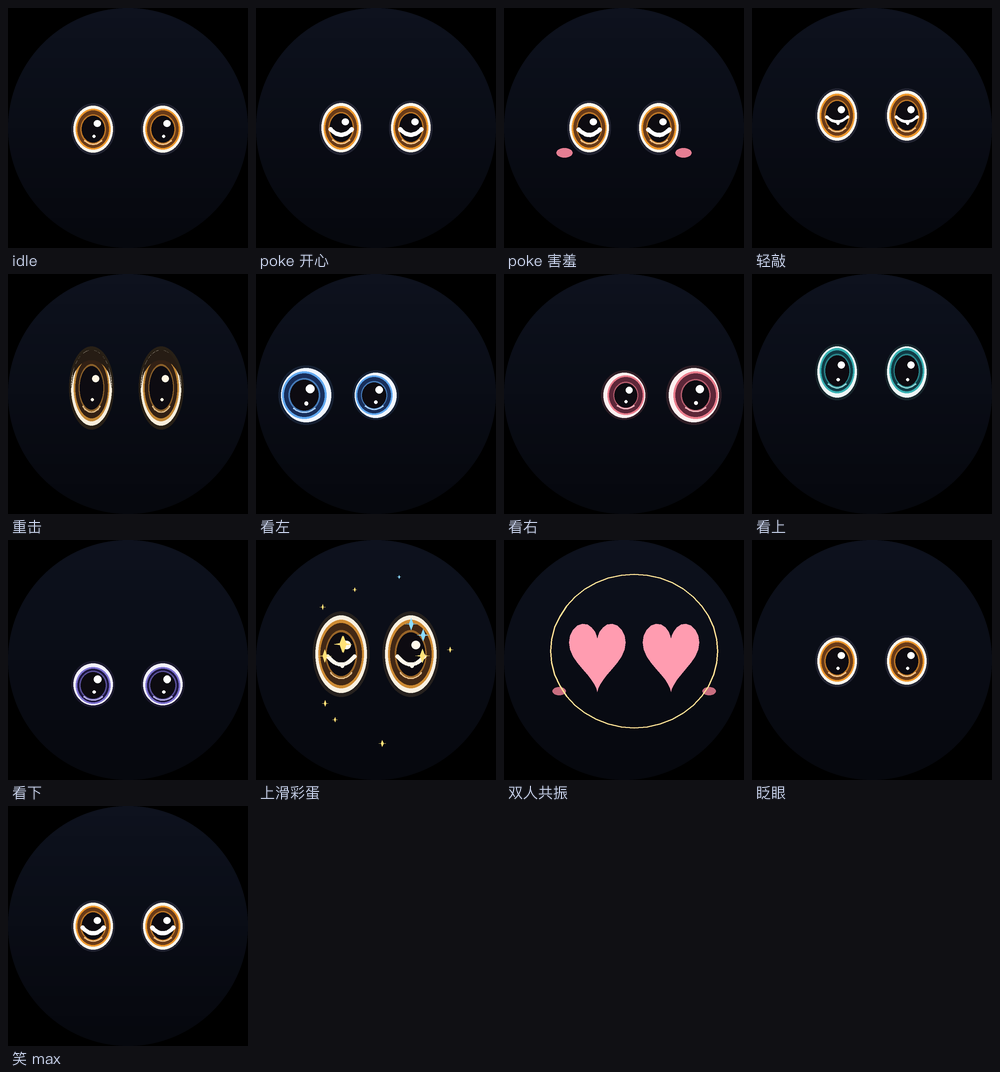
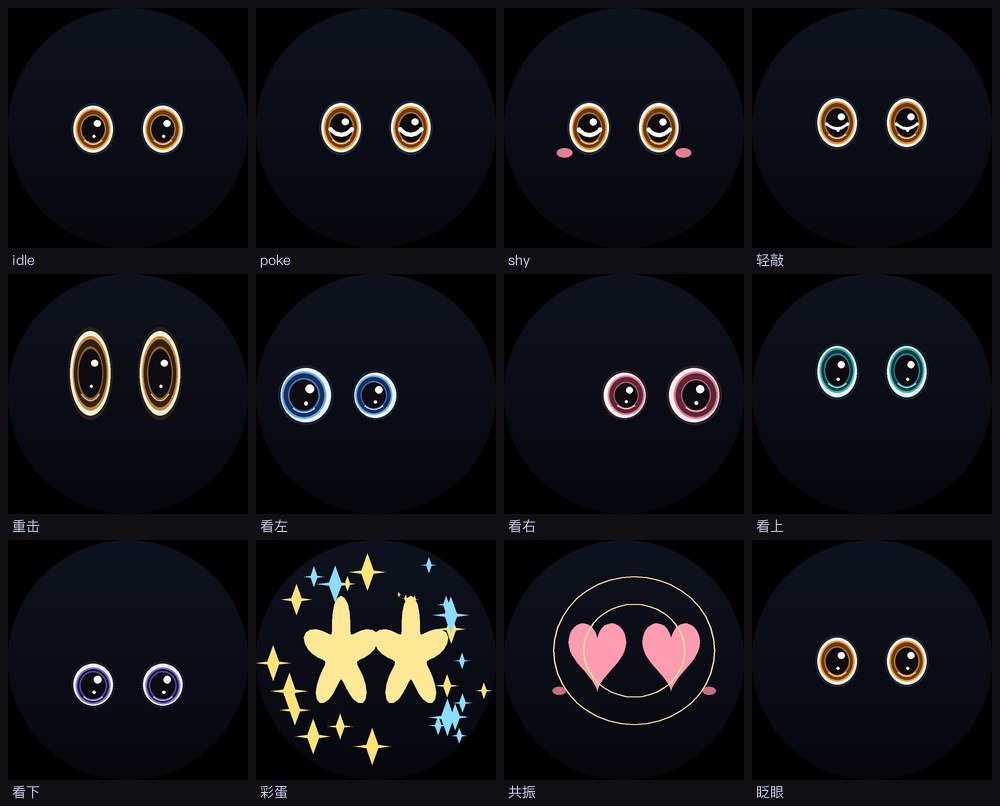
feat(eyes): 形状库 + 上滑彩蛋改成星星眼
形状和配色解耦。新增 7 个形状，全部走同一套"极坐标轮廓插值"：

  round / star / heart / cat / squint / wave / sparkle

上滑彩蛋现在真的会**变成星星眼**（原来只是周围撒几颗星星，
眼睛本体毫无变化，看起来根本不像彩蛋）：
- 眼睛轮廓在 0.25s 内圆→五角星，尾段再化回去
- 星星眼放大到 1.22~1.52 倍，用固定亮金色
- 周围星光从 14 颗提到 30 颗，分近大/远小两圈
- 星光起点抬到眼睛外面，不再压在星星眼上糊成一片

几个踩过的坑（记下来）：
1. 屏幕坐标 t=0 指右、t=+pi/2 指**下**，一开始按数学惯例写，
   所有形状都是上下颠倒/旋转的
2. 心形不能用极坐标半径做 —— 上方两个圆瓣之间的凹口要求半径在极短
   角度内突变，平滑函数做不出来，出来就是个圆团（试了两版）。
   改用参数式直接采样，再和极坐标形状按点插值
3. 猫眼不能靠"左右半径大、上下半径小"做，收缩到 0.34 时左右会断开成
   两半。改成 y 方向压扁，永远单连通
4. 星星眼颜色原本混了 design.iris_outer，会随 9 宫格位置变，
   看起来在闪。改成固定亮金

顺手删掉已被形状库取代的 _heart_poly。

diff --git a/eyes_core.py b/eyes_core.py
@@ -1006,6 +1006,14 @@ class EyeStateMachine:
         design = self.current_design()
         inner_rot = self.clock * (1.5 + 3.0 * mood)   # 虹膜跑马灯 / 指针角度
 
+        # 星星眼的强度包络：0.25s 冲满，之后按 hype 进度回落
+        hype_env = 0.0
+        if hype > 0.0:
+            prog = clamp(self.hype_t / self.hype_len, 0.0, 1.0)
+            rise = clamp(self.hype_t / 0.25, 0.0, 1.0)
+            fall = clamp((prog - 0.45) / 0.55, 0.0, 1.0)
+            hype_env = rise * (1.0 - ease_in_out_sine(fall))
+
         # ---- 眼睛本体 ----------------------------------------------------
         eye_boxes = []
         for side in (-1, 1):
@@ -1016,14 +1024,28 @@ class EyeStateMachine:
             size_k = 1.0 + (0.12 * near - 0.07 * (1 - near)) * abs(col_f)
             rx_, ry_ = eye_rx * size_k, eye_ry * size_k
 
+            # 上滑彩蛋：眼睛变成**星星眼**。
+            # 和共振变心形用同一套插值机制（形状库），只是目标形状不同。
+            # 强度分两段：先冲到 1（0.25s），尾段再慢慢化回普通眼睛。
+            if hype_env > 0.05:
+                # 星星眼要比普通眼睛**大一圈**，才有"炸开"的感觉
+                grow = 1.22 + 0.30 * clamp(hype_env, 0, 1)
+                shape_pts = blend_shape("round", "star", clamp(hype_env, 0, 1),
+                                        cx, cy, rx_ * grow, ry_ * grow)
+                # 星星用固定的亮金 —— 不要从 design.iris_outer 混，
+                # 因为那会随 9 宫格位置变，星星眼的颜色就会跟着跳（看起来在闪）
+                star_col = mix_rgb((255, 210, 90), (255, 246, 190),
+                                   clamp(hype_env, 0, 1) * 0.6)
+                dl.add(Polygon(shape_pts, mood=rgb_key(star_col)))
+                eye_boxes.append((cx, cy, rx_, ry_))
+                continue
+
             # 共振：眼睛直接变成心形（最醒目、最不会看错的表情）
             if bond_env > 0.03:
                 k = clamp(bond_env, 0.0, 1.0)
-                circle = ellipse_polygon(cx, cy, rx_ * 1.06, ry_ * 1.06, 40)
-                heart = _heart_poly(cx, cy + ry_ * 0.02, rx_ * 0.98, ry_ * 1.02, 40)
-                blended = [(lerp(circle[i][0], heart[i][0], k),
-                            lerp(circle[i][1], heart[i][1], k))
-                           for i in range(40)]
+                blended = blend_shape("round", "heart", k,
+                                      cx, cy + ry_ * 0.02,
+                                      rx_ * 1.00, ry_ * 1.02)
                 dl.add(Polygon(blended, mood=rgb_key(mix_rgb(design.tint, _HEART, k))))
                 eye_boxes.append((cx, cy, rx_, ry_))
                 continue
@@ -1307,24 +1329,198 @@ def _blend_style(col_f: float, row_f: float) -> dict:
     return out
 
 
-def _heart_poly(cx: float, cy: float, rx: float, ry: float,
-                n: int = 40) -> List[Tuple[float, float]]:
-    """
-    心形轮廓（共振时眼睛变成心）。
+# ---------------------------------------------------------------------------
+# 形状库
+# ---------------------------------------------------------------------------
+#
+# 每一套设计只决定**颜色**，形状单独拿出来，两者正交。
+# 所有形状都返回同样点数的极坐标轮廓 (角度 t, 半径比例 s)，这样才能两两插值：
+#
+#     轮廓 = [ (t_i, s_i) ... ]    t_i 是角度，s_i 是"半径是标准椭圆的几倍"
+#
+# 插值时只对 s 做线性插值，角度固定 —— 保证几何上连续，不会出现
+# "心形绕一圈"那种自交。
+#
+# Arduino 版照抄这套参数即可：全部是 sin/cos 的组合，没有查表。
 
-    用经典极坐标心形曲线：
-        x = 16 sin^3(t)
-        y = -(13 cos t - 5 cos2t - 2 cos3t - cos4t)
-    归一化到约 ±1，再乘 rx/ry。y 轴向下，所以整体不翻转。
+#: 轮廓采样点数。40 够圆，Arduino 上也不至于太慢。
+SHAPE_N = 64
+
+#: 形状名字（也是轮播 / 调试用的 key）
+SHAPES = ("round", "star", "heart", "cat", "squint", "wave", "sparkle")
+
+
+def _star_radius(t: float, points: int = 5, inner: float = 0.42) -> float:
+    """
+    五角星。
+
+    屏幕坐标里 t=0 指右、t=pi/2 指**下**。
+    想让一个尖朝上，锥角要落在 t = -pi/2。
+    """
+    # 从"正上方"算起的角度
+    a = t + math.pi / 2.0
+    k = abs(math.cos(points * 0.5 * a)) ** 1.9   # 指数越大尖越尖
+    return inner + (1.0 - inner) * k
+
+
+def heart_points(cx: float, cy: float, rx: float, ry: float,
+                 n: int = SHAPE_N) -> List[Tuple[float, float]]:
+    """
+    心形轮廓，直接用参数方程采样（不做极坐标转换）。
+
+    极坐标表达心形做不出上方那个凹口 —— 那个凹口要求半径在很短的角度
+    区间里突变，平滑函数做不到，硬做出来就是一个圆团（试过两版）。
+
+    参数式（经典心形）：
+        x = 16 sin^3(u)
+        y = -(13 cos u - 5 cos 2u - 2 cos 3u - cos 4u)
+    y 取负是因为屏幕坐标 y 向下，而心形公式里 y 向上。
+    自然范围约 x∈[-16,16]、y∈[-17,12]，统一缩放到 ±1。
     """
     pts: List[Tuple[float, float]] = []
     for i in range(n):
-        t = 2.0 * math.pi * i / n
-        hx = 16.0 * math.sin(t) ** 3
-        hy = -(13.0 * math.cos(t) - 5.0 * math.cos(2 * t)
-               - 2.0 * math.cos(3 * t) - math.cos(4 * t))
-        # 心形曲线的自然范围约 ±17 / ±17（上下略不对称），统一缩放到 ±1
+        u = 2.0 * math.pi * i / n
+        hx = 16.0 * math.sin(u) ** 3
+        hy = -(13.0 * math.cos(u) - 5.0 * math.cos(2 * u)
+               - 2.0 * math.cos(3 * u) - math.cos(4 * u))
         pts.append((cx + rx * (hx / 17.0), cy + ry * (hy / 17.0)))
+    return pts
+
+
+def _cat_radius(t: float) -> float:
+    """
+    猫眼/杏仁：**在 shape_polygon 里靠 y 方向压扁实现**，半径恒为 1。
+
+    之前用"左右半径大、上下半径小"来做，结果上下收缩到 0.34 时
+    左右两端断开成两半 —— 半径法不能把某个方向压到太小。
+    压 y 更直白，而且永远单连通。
+    """
+    return 1.0
+
+
+def _wave_radius(t: float) -> float:
+    """波浪边，6 个起伏。"""
+    return 1.0 + 0.075 * math.sin(6.0 * t)
+
+
+def _sparkle_radius(t: float) -> float:
+    """
+    四角闪光：四个方向拉出长尖，对角线收进去。
+
+    用 cos(2t) 做周期，四个尖分别落在 0 / 90 / 180 / 270 度。
+    """
+    k = abs(math.cos(2.0 * t))
+    # 指数越大，四个尖越细长、对角越凹 —— 看起来才是"闪"，不是加号
+    return 0.12 + 0.88 * (k ** 4.5)
+
+
+def _squint_radius(t: float) -> float:
+    """
+    眯眼：整体压扁成一条缝，但**保持单连通**（不能裂成两半）。
+
+    之前用 0.30 + 0.70*|sin| 会在左右两端缩到 0.30 而中间不缩，
+    视觉上断成两块。这里改成"上下压扁"：让 y 方向整体乘一个小系数，
+    半径始终 > 0。
+    """
+    return 1.0
+
+
+def shape_profile(name: str) -> List[Tuple[float, float]]:
+    """返回某个形状的极坐标轮廓 [(角度, 半径比例)]。"""
+    out: List[Tuple[float, float]] = []
+    for i in range(SHAPE_N):
+        t = 2.0 * math.pi * i / SHAPE_N
+        if name == "squint":
+            # 眯眼靠 y 压扁实现，半径保持 1（见 shape_polygon 里的 ys）
+            s = 1.0
+        elif name == "star":
+            s = _star_radius(t)
+        elif name == "cat":
+            s = _cat_radius(t)
+        elif name == "wave":
+            s = _wave_radius(t)
+        elif name == "sparkle":
+            s = _sparkle_radius(t)
+        else:                      # round
+            s = 1.0
+        out.append((t, s))
+    return out
+
+
+#: 心形等需要查表的形状的缓存
+SHAPE_LUT: Dict[str, object] = {}
+
+#: 预计算，避免每帧重算三角函数（240 帧 × 2 眼 × 40 点 = 每秒 19k 次，没必要）
+SHAPE_CACHE: Dict[str, List[Tuple[float, float]]] = {}
+
+
+def _profile(name: str) -> List[Tuple[float, float]]:
+    if name not in SHAPE_CACHE:
+        SHAPE_CACHE[name] = shape_profile(name)
+    return SHAPE_CACHE[name]
+
+
+def shape_polygon(name: str, cx: float, cy: float, rx: float, ry: float,
+                  squash_top: float = 0.0) -> List[Tuple[float, float]]:
+    """把形状轮廓变成一个可以直接画的多边形。
+
+    squash_top > 0 时把上半部压扁（眨眼用），和椭圆版的 squash_bottom 一个意思。
+    """
+    if name == "heart":
+        return heart_points(cx, cy, rx, ry)
+    ys = {"squint": 0.30, "cat": 0.52}.get(name, 1.0)
+    pts: List[Tuple[float, float]] = []
+    for t, s in _profile(name):
+        x = cx + rx * s * math.cos(t)
+        y = cy + ry * s * ys * math.sin(t)
+        if squash_top > 0.0 and y < cy:
+            y = cy + (y - cy) * (1.0 - squash_top)
+        pts.append((x, y))
+    return pts
+
+
+def blend_shape(a: str, b: str, t: float, cx: float, cy: float,
+                rx: float, ry: float) -> List[Tuple[float, float]]:
+    """
+    两个形状之间插值。t=0 完全是 a，t=1 完全是 b。
+
+    只插半径、不插角度 —— 角度对所有形状都一样，所以永远不会自交。
+    """
+    t = clamp(t, 0.0, 1.0)
+    # 心形是参数式采样的，点数和极坐标路径一致（都是 SHAPE_N），
+    # 所以可以直接把它当成一组点参与线性插值。
+    if a == "heart" or b == "heart":
+        ha = heart_points(cx, cy, rx, ry)
+        hb = heart_points(cx, cy, rx, ry)
+        pa2 = _profile(a) if a != "heart" else None
+        pb2 = _profile(b) if b != "heart" else None
+        out = []
+        for i in range(SHAPE_N):
+            if a == "heart":
+                ax, ay = ha[i]
+            else:
+                ang, s = pa2[i]
+                ax, ay = cx + rx * s * math.cos(ang), cy + ry * s * math.sin(ang)
+            if b == "heart":
+                bx, by = hb[i]
+            else:
+                ang, s = pb2[i]
+                bx, by = cx + rx * s * math.cos(ang), cy + ry * s * math.sin(ang)
+            out.append((ax + (bx - ax) * t, ay + (by - ay) * t))
+        return out
+
+    pa, pb = _profile(a), _profile(b)
+    _ys = {"squint": 0.30, "cat": 0.52}
+    ya = _ys.get(a, 1.0)
+    yb = _ys.get(b, 1.0)
+    ys = ya + (yb - ya) * t
+    pts: List[Tuple[float, float]] = []
+    for i in range(SHAPE_N):
+        ang, sa = pa[i]
+        _, sb = pb[i]
+        s = sa + (sb - sa) * t
+        pts.append((cx + rx * s * math.cos(ang),
+                    cy + ry * s * ys * math.sin(ang)))
     return pts
 
 
@@ -1351,20 +1547,32 @@ def _draw_bond_ring(dl: DrawList, amount: float, clock: float,
 
 
 def _draw_sparkles(dl: DrawList, hype: float, clock: float, seed: int) -> None:
-    """彩蛋期间的爆发光芒 / 小星星。"""
+    """
+    彩蛋期间的爆发星光。
+
+    分两拨：
+      · 近处一圈大的（慢慢转），负责"热闹"
+      · 远处一圈小的（转得快），负责"闪"
+    数量从 14 提到 30，尺寸也放大 —— 之前太稀疏，几乎看不出来。
+    """
     rng = random.Random(seed)
-    n = 14
-    for i in range(n):
+    for i in range(30):
+        big = i < 18
         a0 = rng.uniform(0, math.tau)
-        r0 = rng.uniform(0.40, 0.78)
-        speed = rng.uniform(0.55, 1.4)
+        # 起始半径抬到眼睛外面：星星眼本身已经很大（~0.29 半径），
+        # 星火压在上面会糊成一片，看不出是"周围的星光"
+        r0 = rng.uniform(0.30, 0.46) if big else rng.uniform(0.46, 0.54)
+        speed = rng.uniform(0.35, 0.8) if big else rng.uniform(0.9, 1.8)
         phase = (clock * speed + rng.uniform(0, 1)) % 1.0
-        rr = 0.30 + r0 * phase
+        rr = 0.58 + r0 * phase
         cx = math.cos(a0) * rr
-        cy = math.sin(a0) * rr
-        size = 0.032 * (1.0 - phase) * hype
-        if size > 0.002:
-            dl.add(("spark", cx, cy, size, a0, phase))
+        cy = math.sin(a0) * rr * 0.96
+        base = 0.070 if big else 0.036
+        # 淡入淡出：两端小、中间大，不会突然出现/消失
+        env = math.sin(math.pi * phase) ** 0.6
+        size = base * env * hype
+        if size > 0.002 and rr < 0.97:
+            dl.add(("spark", cx, cy, size, a0 + clock * speed, phase))
 
 
 # ---------------------------------------------------------------------------
